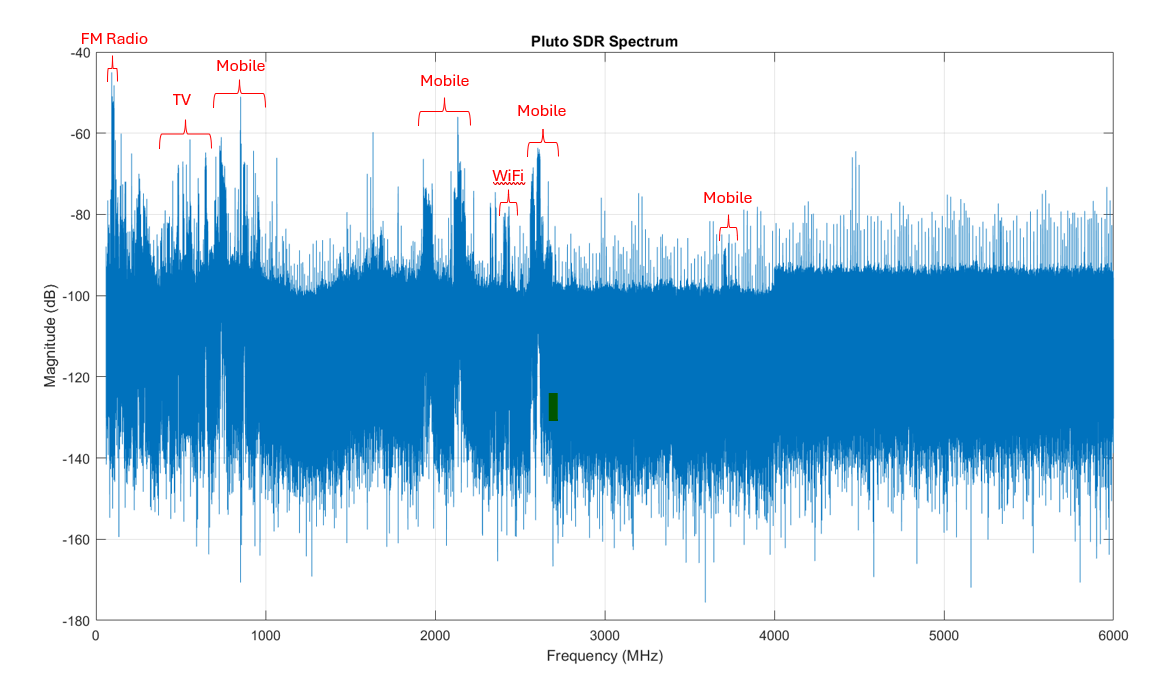
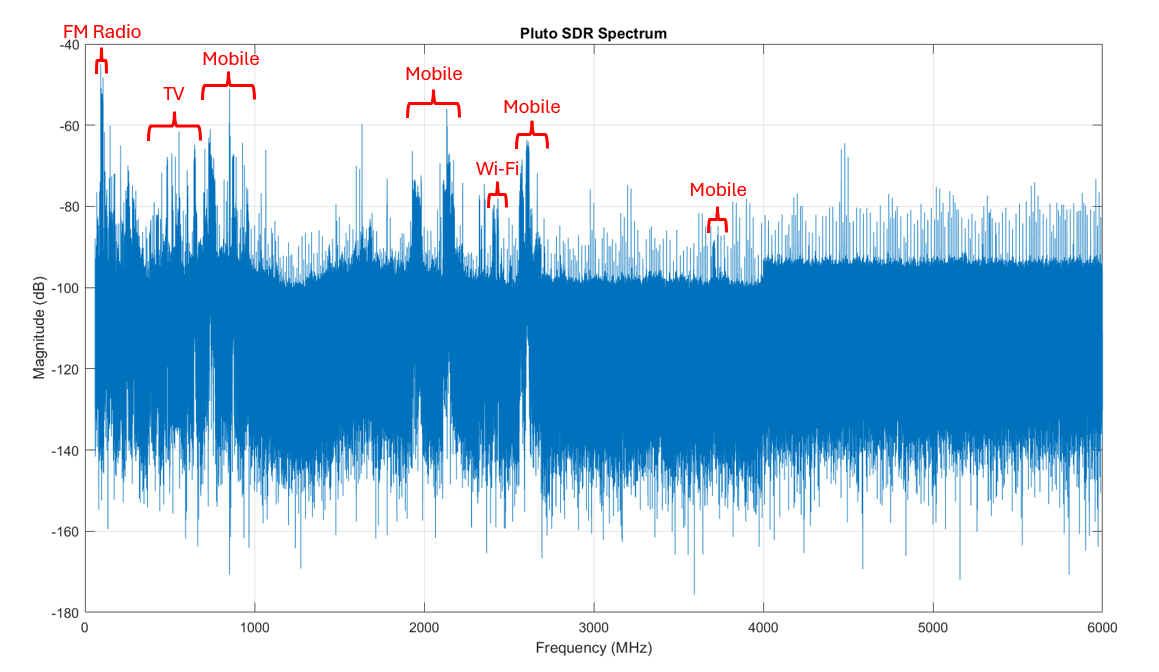
Adding full Pluto SDR spectrum

diff --git a/3/lab_report.tex b/3/lab_report.tex
@@ -105,7 +105,15 @@ Motorola Type II Communications leverage multiple channels that are 12.5 kHz wid
 
 \subsection{Sweeping the Spectrum: Receiving from 60 MHz to 6 GHz}
 
-In this section, we stitch together multiple collects of the PlutoSDR with different center frequencies to get a picture of the frequency response from 60 MHz to 6 GHz. As previously stated, we sweep the LO frequency in 20 MHz steps. In between each collect, we call the \texttt{release} method of the \texttt{sdrrx} object. This prevents us from looking at stale data in the Pluto receive buffers. To ensure that are transmitted signal doesn't corrupt our received data, we set the LO frequency far from our collect, max-out the attenuation, and transmit zeros.
+In this section, we stitch together multiple collects of the PlutoSDR with different center frequencies to get a picture of the frequency response from 60 MHz to 6 GHz. As previously stated, we sweep the LO frequency in 20 MHz steps. In between each collect, we call the \texttt{release} method of the \texttt{sdrrx} object. This prevents us from looking at stale data in the Pluto receive buffers. To ensure that are transmitted signal doesn't corrupt our received data, we set the LO frequency far from our collect, max-out the attenuation, and transmit zeros. After stitching together each of our collects, we get a picture of the full PlutoSDR spectrum, which we have included in Figure \ref{fig::full_spectrum_labeled}.
+
+\begin{figure}[H]
+	\centerline{\fbox{\includegraphics[width=0.7\textwidth]{full_spectrum_labeled.png}}}
+	\caption{Full Pluto SDR Spectrum with Key Bands Labeled}
+	\label{fig::full_spectrum_labeled}
+\end{figure}
+
+We have also labeled the key bands in the spectrum. These include FM Radio, TV, Mobile, and Wi-Fi bands. The TV bands primarily use 8VSB modulation, the Wi-Fi bands leverage OFDM in accordance with the 802.11a standard, and the mobile bands leverage mostly LTE and 5G NR.
 
 \section{Conclusion}
 % Conclusions to the overall lab that discuss meaningful lessons learned and other takeaways from the assignment. (Important)
